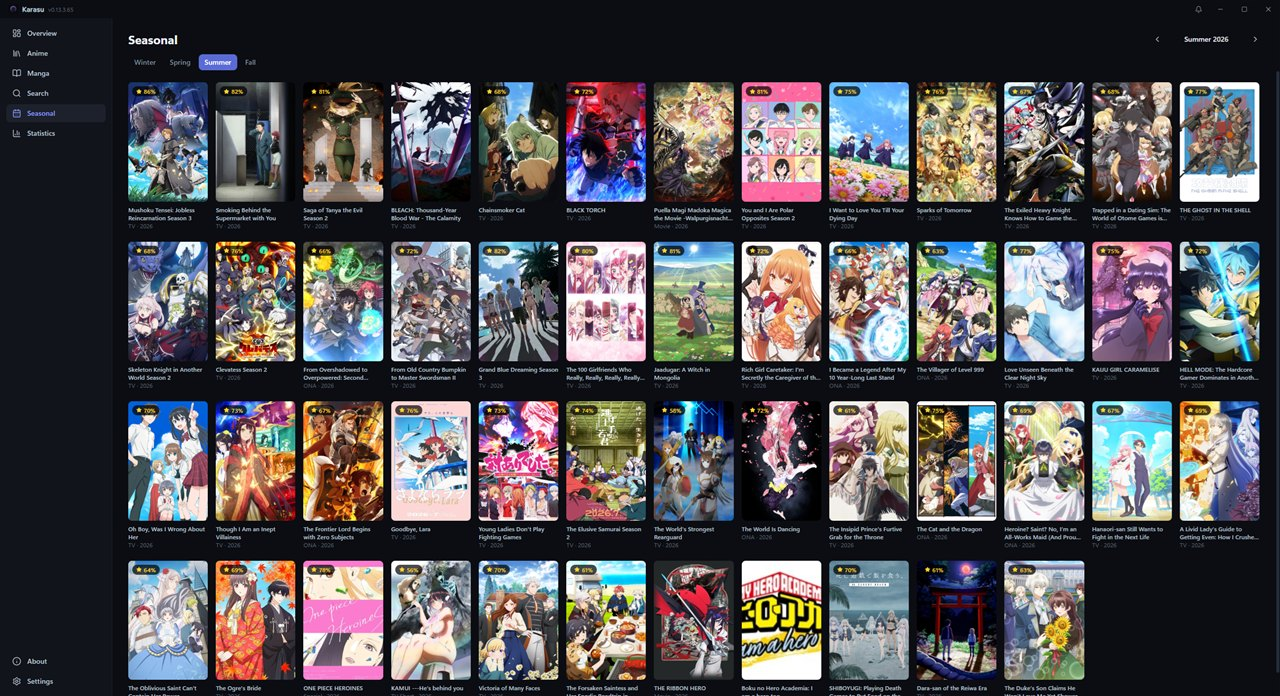
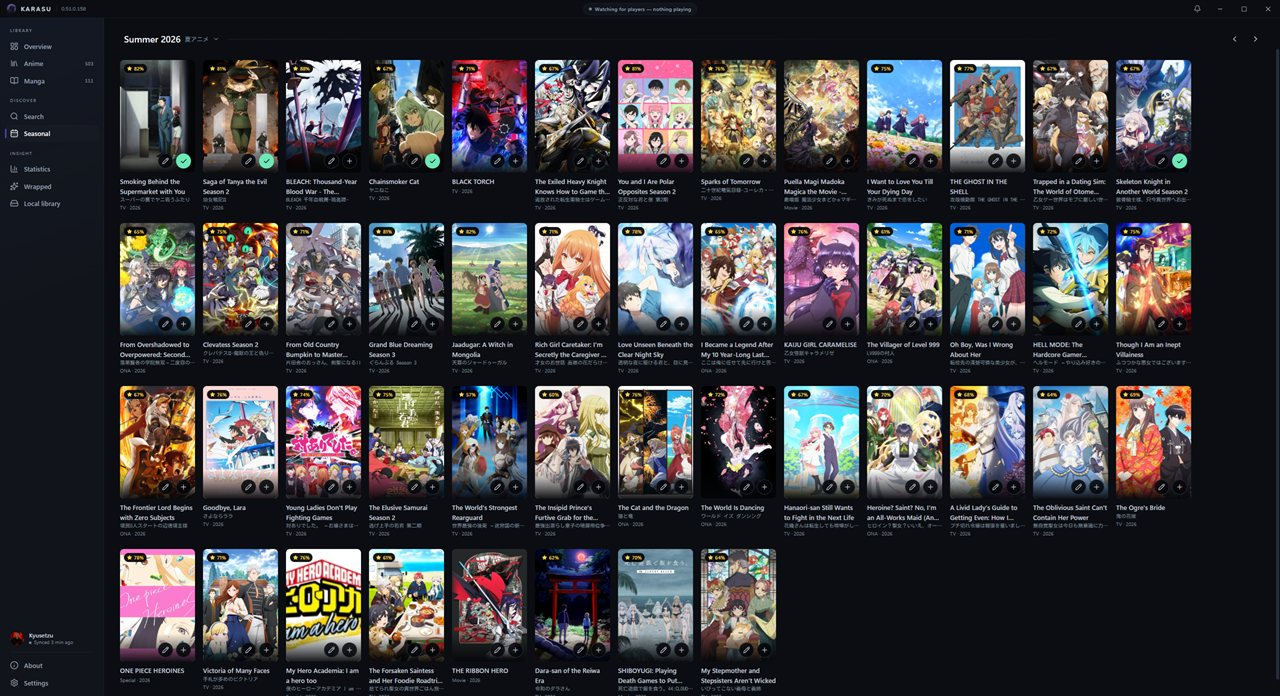
Show the app that exists
Every screenshot in the README predated the redesign, and the feature list
had no density, no keyboard model, no undo, no volumes axis, no graph
pan or zoom, no sunburst or radar, no export presets and no seven-pane
settings — a page describing an app you can no longer install.

Ten new captures, converted to the 1280×696 JPEG the other seven used, so
the set stays consistent and the repo gains 1.2 MB rather than the 18 MB
the PNGs weighed. The grid pairs each list with its own row view instead
of showing anime twice, and Year in review closes the section full width
because it is a poster.

The Settings tile is gone rather than stale: that screen was rebuilt into
seven panes this session, and the old shot shows something that no longer
exists. `assets/icon.png` goes too — grepped the repo, nothing has ever
referenced it.

diff --git a/src-tauri/src/commands.rs b/src-tauri/src/commands.rs
@@ -1047,7 +1047,7 @@ pub fn mark_all_notifications_read(db: State<'_, Db>) -> Result<(), String> {
 
 /// Monotonic commit counter — the 4th version segment
 /// (`MAJOR.MINOR.PATCH.COMMIT#`). Bumped by one on every commit.
-pub const COMMIT_NUMBER: u32 = 158;
+pub const COMMIT_NUMBER: u32 = 159;
 
 /// Full four-part display version, e.g. `0.1.1.38`. The `MAJOR.MINOR.PATCH`
 /// core comes from the crate version (kept in sync across the manifests).

diff --git a/README.md b/README.md
@@ -53,18 +53,27 @@ Because a desktop app can do things anilist.co simply can't:
 
 <table>
 <tr>
-<td width="50%"><img src="assets/screenshots/overview.jpg" alt="Dashboard overview" /><br /><sub>Overview — this week's airing, continue watching, stats at a glance</sub></td>
-<td width="50%"><img src="assets/screenshots/anime-list.jpg" alt="Anime list" /><br /><sub>Anime list — grid view with status tabs and filters</sub></td>
+<td width="50%"><img src="assets/screenshots/overview.jpg" alt="Dashboard overview" /><br /><sub>Overview — what's airing this week, what you're in the middle of, recommendations</sub></td>
+<td width="50%"><img src="assets/screenshots/local-library.jpg" alt="Local library" /><br /><sub>Local library — your files, matched to your list, next unwatched episode first</sub></td>
 </tr>
 <tr>
-<td width="50%"><img src="assets/screenshots/season-overview.jpg" alt="Seasonal chart" /><br /><sub>Seasonal — browse a season's chart</sub></td>
-<td width="50%"><img src="assets/screenshots/statistics.jpg" alt="Statistics page" /><br /><sub>Statistics — genres, tags, voice actors, studios and more</sub></td>
+<td width="50%"><img src="assets/screenshots/anime-list.jpg" alt="Anime list, grid view" /><br /><sub>Anime list — covers, status tabs, filters and presets</sub></td>
+<td width="50%"><img src="assets/screenshots/anime-list-columns.jpg" alt="Anime list, row view" /><br /><sub>…or as rows, with quick progress and score editing in place</sub></td>
 </tr>
 <tr>
-<td width="50%"><img src="assets/screenshots/year-in-review.jpg" alt="Year in review card" /><br /><sub>Year in review — a shareable card, exportable as a PNG</sub></td>
-<td width="50%"><img src="assets/screenshots/settings.jpg" alt="Settings page" /><br /><sub>Settings — themes, accent colours, detection and update preferences</sub></td>
+<td width="50%"><img src="assets/screenshots/manga-list.jpg" alt="Manga list, grid view" /><br /><sub>Manga list — the same list, counting chapters and volumes</sub></td>
+<td width="50%"><img src="assets/screenshots/manga-list-columns.jpg" alt="Manga list, row view" /><br /><sub>…and its row view</sub></td>
+</tr>
+<tr>
+<td width="50%"><img src="assets/screenshots/season-overview.jpg" alt="Seasonal chart" /><br /><sub>Seasonal — a year row over a season grid, so any season is two clicks away</sub></td>
+<td width="50%"><img src="assets/screenshots/statistics.jpg" alt="Statistics page" /><br /><sub>Statistics — how your list splits, the shape of your taste, the years you were active</sub></td>
 </tr>
 </table>
+
+<p align="center">
+  <img src="assets/screenshots/year-in-review.jpg" alt="Year in review card" width="70%" /><br />
+  <sub>Year in review — a shareable poster of your year, in five crops</sub>
+</p>
 
 ## Features
 
@@ -94,6 +103,10 @@ Because a desktop app can do things anilist.co simply can't:
 - **Bulk multi-select** edits, saved **filter/sort presets**, a **random pick**,
   private **notes**, custom **tags** (with a tag filter), and a
   **rewatch/reread counter**
+- Manga counts **chapters and volumes** as two separate axes, the way AniList
+  stores them
+- Every edit can be **undone** from the toast it raises — and a failed write
+  says so, queues itself and offers a retry
 
 **Discovery**
 - Search with an anime/manga toggle, seasonal charts, rich detail pages
@@ -101,12 +114,15 @@ Because a desktop app can do things anilist.co simply can't:
   titles you've completed — the higher you scored something, the more its
   suggestions count, and anything already on your list is left out
 - **Franchise graph** — the whole franchise as a relation map (sequels, side
-  stories, cross-medium sources/adaptations), each node coloured by your status
+  stories, cross-medium sources/adaptations), each node coloured by your status,
+  pan and zoom, and any branch foldable out of the way
 
 **Insights**
-- **Statistics** — AniList profile stats (genres, tags, voice actors, studios,
-  staff) for both anime and manga
-- **Year in review** — a shareable card of your year, exportable as a PNG
+- **Statistics** — genres, tags, voice actors, studios and staff for both
+  mediums, plus a sunburst of what is on the list, a radar of the shape of your
+  taste, the years you were active, series length and country of origin
+- **Year in review** — a shareable poster of your year in five crops (banner,
+  square, page, compressed, detailed), exported as PNG or JPEG at 1×, 2× or 3×
 - Time-to-finish estimates and a Dashboard "this week" digest
 
 **Notifications**
@@ -116,16 +132,26 @@ Because a desktop app can do things anilist.co simply can't:
   read / mark-all-read
 
 **Integrations &amp; flexibility**
-- **Local library** with *play next episode* in your default player
+- **Local library** — your folder scanned and matched to your list, each title
+  showing the next unwatched file and how confident the match was, with every
+  episode on disk one click away
 - **Discord Rich Presence**, always on, with a link back to the project
 - **Local-only mode** (no account needed) with a later sign-in merge
 - **Portable mode** — keep everything in a folder next to the executable
 
 **Personalisation**
-- Light / dark themes and a full **accent colour picker** (text stays readable
-  on any colour)
-- Command palette (<kbd>Ctrl</kbd>+<kbd>K</kbd>), an app-appropriate in-app
-  right-click menu, system tray, single instance, autostart
+- Light / dark themes and a full **accent colour picker** — every shade, the
+  panel washes and the readable ink on top are derived from the one colour you
+  pick, so nothing is hardcoded
+- **Cover size** in three steps and a **reduce motion** switch
+- **Keyboard shortcuts** throughout, with a <kbd>?</kbd> reference sheet: a
+  command palette on <kbd>Ctrl</kbd>+<kbd>K</kbd>, <kbd>/</kbd> to search,
+  <kbd>Ctrl</kbd>+<kbd>1</kbd>–<kbd>3</kbd> between screens, and arrows,
+  <kbd>Space</kbd>, <kbd>E</kbd> and <kbd>C</kbd> inside a list
+- **Settings in seven panes** — account, appearance, detection, library,
+  content, integrations and advanced
+- An app-appropriate in-app right-click menu, system tray, single instance,
+  autostart
 - English / German with automatic system-language detection
 - One-click AniList login and a built-in *Check for updates*
 
@@ -187,6 +213,7 @@ running version is shown in the About window.
 | Rendering | `@tanstack/react-virtual` for the anime and manga lists, so a several-thousand-entry list only mounts the rows near the viewport |
 | Storage | SQLite via rusqlite (cache, offline queue, local list, notifications, settings); tokens in the OS credential store (Windows Credential Manager, Secret Service on Linux) |
 | Detection | Win32 window enumeration + Windows media sessions (SMTC), with an optional Jellyfin `/Sessions` source; titles resolved by a custom release-name parser (Anitomy equivalent) |
+| Theming | One accent colour in, a whole palette out — shades, the two companion wash hues and a readable ink are derived at runtime in `src/lib/contrast.ts`, contrast-checked against both themes |
 
 ### Shared application IDs
 
